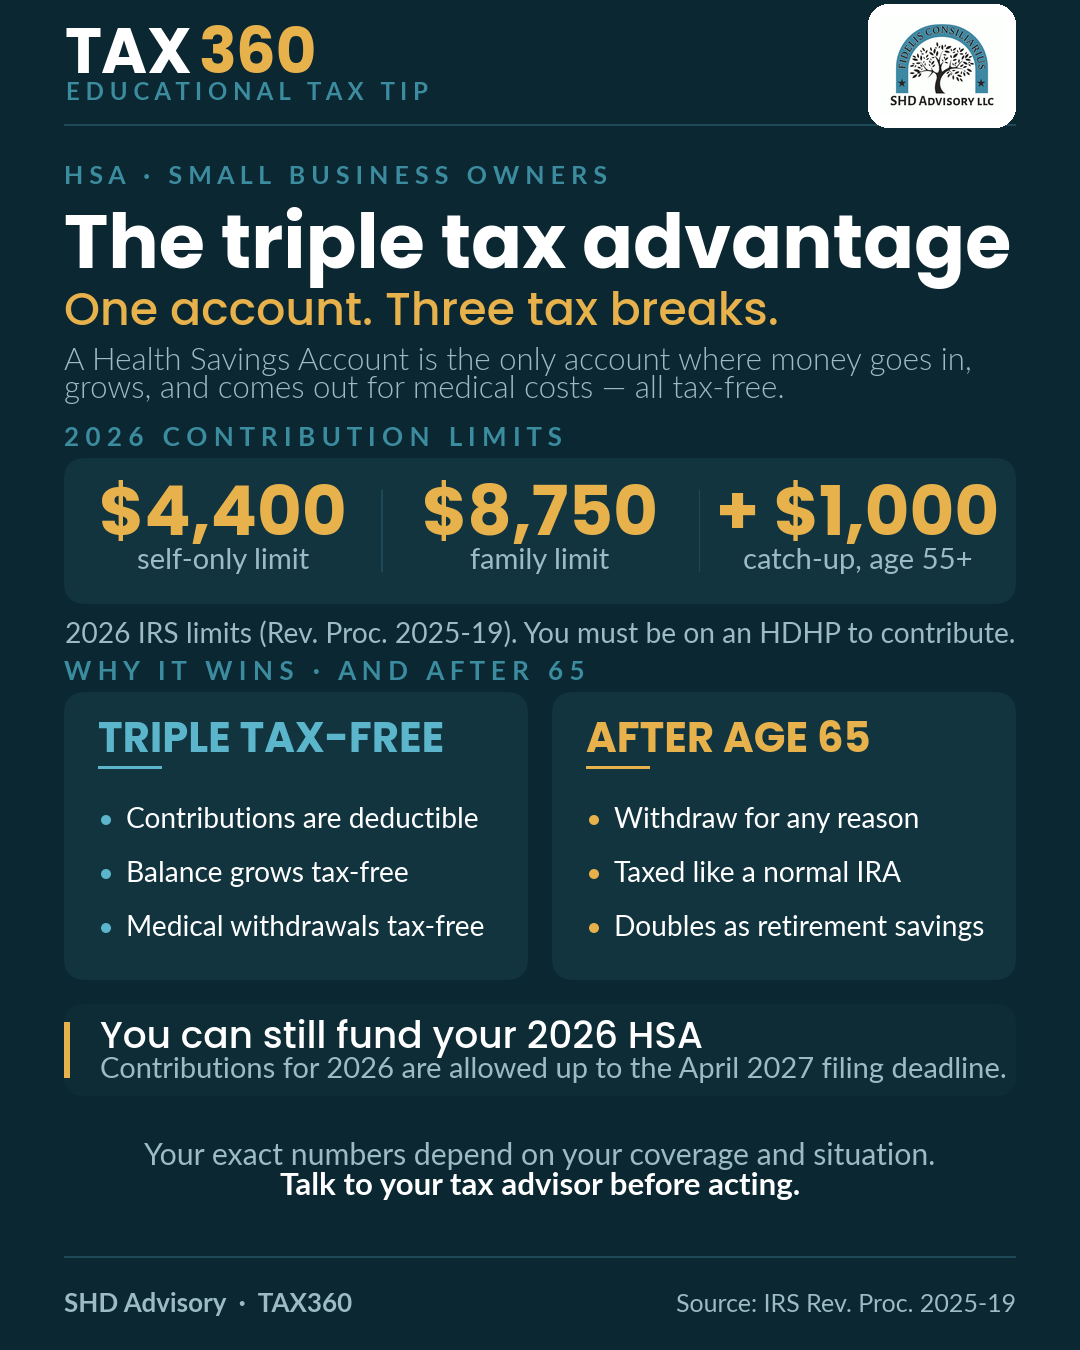
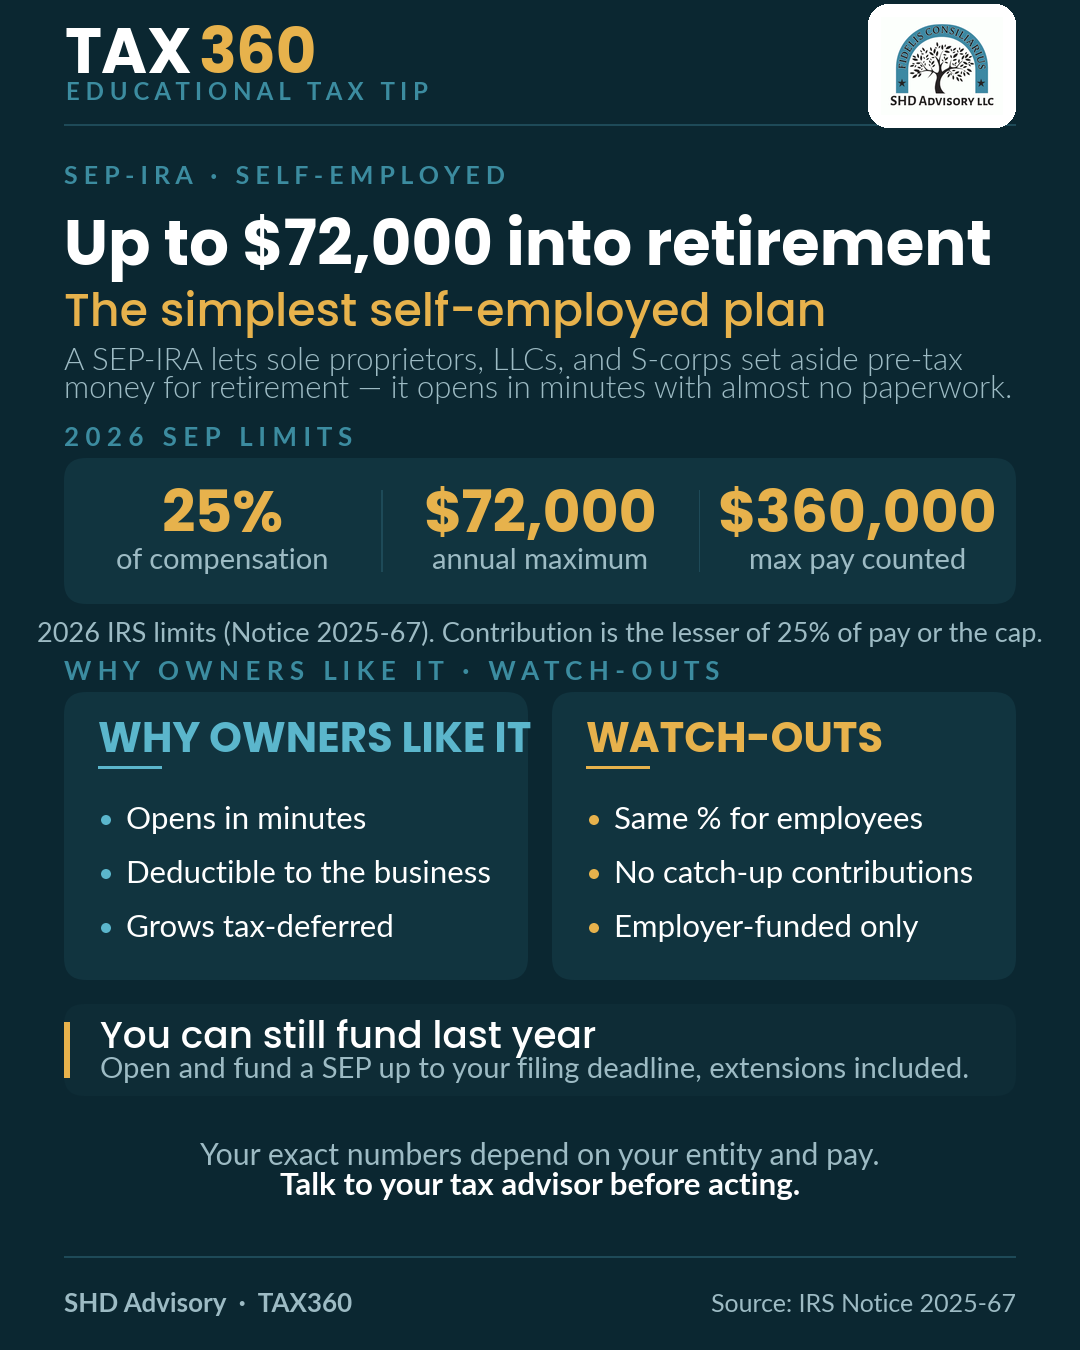
TAX360 2026-08-10 replace HSA card with SEP-IRA (topic was a 12-month repeat)

diff --git a/build_today.py b/build_today.py
@@ -33,48 +33,54 @@ T(M+2,92,"E D U C A T I O N A L   T A X   T I P","lb",11.5,TEAL)
 ax.add_patch(Rectangle((M,124),W-2*M,2,fc=LINE))
 
 # hero
-T(M,176,"H S A   ·   S M A L L   B U S I N E S S   O W N E R S","lb",12,TEAL)
-hl="The triple tax advantage"; hsz=40
+T(M,176,"S E P - I R A   ·   S E L F - E M P L O Y E D","lb",12,TEAL)
+hl="Up to $72,000 into retirement"; hsz=40
 while hsz>26 and textw(hl,"pb",hsz)>MAXW: hsz-=1
 T(M,248,hl,"pb",hsz,WHITE)
-T(M,314,"One account. Three tax breaks.","pm",22,GOLD)
-T(M,362,"A Health Savings Account is the only account where money goes in,","ll",15,MUTE)
-T(M,390,"grows, and comes out for medical costs — all tax-free.","ll",15,MUTE)
+T(M,314,"The simplest self-employed plan","pm",22,GOLD)
+T(M,362,"A SEP-IRA lets sole proprietors, LLCs, and S-corps set aside pre-tax","ll",15,MUTE)
+T(M,390,"money for retirement — it opens in minutes with almost no paperwork.","ll",15,MUTE)
 
 # stat band
-T(M,438,"2 0 2 6   C O N T R I B U T I O N   L I M I T S","lb",12.5,TEAL)
+T(M,438,"2 0 2 6   S E P   L I M I T S","lb",12.5,TEAL)
 pY=458; pH=146; rbox(M,pY,W-2*M,pH,PANEL,rad=22); colw=(W-2*M)/3
-for i,(big,lab) in enumerate([("$4,400","self-only limit"),("$8,750","family limit"),("+ $1,000","catch-up, age 55+")]):
-    cx=M+colw*(i+0.5); T(cx,pY+60,big,"pb",33,GOLD,ha="center"); T(cx,pY+103,lab,"lr",14,MUTE,ha="center")
+STAT=[("25%","of compensation"),("$72,000","annual maximum"),("$360,000","max pay counted")]
+bigsz=33
+while bigsz>22 and max(textw(b,"pb",bigsz) for b,_ in STAT)>colw-34: bigsz-=1
+for i,(big,lab) in enumerate(STAT):
+    cx=M+colw*(i+0.5); T(cx,pY+60,big,"pb",bigsz,GOLD,ha="center"); T(cx,pY+103,lab,"lr",14,MUTE,ha="center")
     if i>0: ax.add_patch(Rectangle((M+colw*i,pY+32),1.6,pH-64,fc=LINE))
-T(W/2,pY+pH+30,"2026 IRS limits (Rev. Proc. 2025-19). You must be on an HDHP to contribute.","lr",13.5,MUTE,ha="center")
+T(W/2,pY+pH+30,"2026 IRS limits (Notice 2025-67). Contribution is the lesser of 25% of pay or the cap.","lr",13,MUTE,ha="center")
 
 # comparison cards
-T(M,672,"W H Y   I T   W I N S   ·   A N D   A F T E R   6 5","lb",12.5,TEAL)
+T(M,672,"W H Y   O W N E R S   L I K E   I T   ·   W A T C H - O U T S","lb",12.5,TEAL)
 cY=692; cH=288; gap=24; cw=(W-2*M-gap)/2
-A=["Contributions are deductible","Balance grows tax-free","Medical withdrawals tax-free"]
-B=["Withdraw for any reason","Taxed like a normal IRA","Doubles as retirement savings"]
+A=["Opens in minutes","Deductible to the business","Grows tax-deferred"]
+B=["Same % for employees","No catch-up contributions","Employer-funded only"]
 inner=cw-62-30; bsz=15.5
 while bsz>13 and max(textw(r,"lr",bsz) for r in A+B)>inner: bsz-=0.5
 def card(x,accent,title,rows):
     rbox(x,cY,cw,cH,PANEL,rad=22); T(x+34,cY+50,title,"pb",20,accent)
     ax.add_patch(Rectangle((x+34,cY+74),64,3,fc=accent)); yy=cY+128
     for r in rows: ax.add_patch(plt.Circle((x+42,yy),5,fc=accent)); T(x+62,yy,r,"lr",bsz,WHITE); yy+=54
-card(M,TEALB,"TRIPLE TAX-FREE",A); card(M+cw+gap,GOLD,"AFTER AGE 65",B)
+card(M,TEALB,"WHY OWNERS LIKE IT",A); card(M+cw+gap,GOLD,"WATCH-OUTS",B)
 
 # accent strip
 dY=1004; dH=92; rbox(M,dY,W-2*M,dH,PANEL2,rad=20); ax.add_patch(Rectangle((M,dY+18),6,dH-36,fc=GOLD))
-T(M+36,dY+34,"You can still fund your 2026 HSA","pm",18,WHITE)
-T(M+36,dY+66,"Contributions for 2026 are allowed up to the April 2027 filing deadline.","lr",14,MUTE)
+T(M+36,dY+34,"You can still fund last year","pm",18,WHITE)
+accline="Open and fund a SEP up to your filing deadline, extensions included."
+accw=(W-2*M)-36-28; asz=14.0
+while asz>11 and textw(accline,"lr",asz)>accw: asz-=0.5
+T(M+36,dY+66,accline,"lr",asz,MUTE)
 
 # caveat
-T(W/2,1156,"Your exact numbers depend on your coverage and situation.","lr",14.5,MUTE,ha="center")
+T(W/2,1156,"Your exact numbers depend on your entity and pay.","lr",14.5,MUTE,ha="center")
 T(W/2,1186,"Talk to your tax advisor before acting.","lb",15,WHITE,ha="center")
 
 # footer
 ax.add_patch(Rectangle((M,H-94),W-2*M,1.6,fc=LINE))
 T(M,H-46,"SHD Advisory  ·  TAX360","lb",12.5,MUTE)
-T(W-M,H-46,"Source: IRS Rev. Proc. 2025-19","lr",12,MUTE,ha="right")
+T(W-M,H-46,"Source: IRS Notice 2025-67","lr",12,MUTE,ha="right")
 
 fig.savefig("/tmp/_tpl_base.png",facecolor=BG,dpi=150)
 from PIL import Image, ImageDraw, ImageChops
@@ -87,5 +93,4 @@ pad=13; bw,bh=lw+2*pad,LH+2*pad
 badge=Image.new("RGBA",(bw,bh),(0,0,0,0)); ImageDraw.Draw(badge).rounded_rectangle([0,0,bw-1,bh-1],radius=20,fill=(255,255,255,255))
 badge.paste(logo,(pad,pad),logo); base.alpha_composite(badge,(W-M-bw,(132-bh)//2))
 base.convert("RGB").save("/tmp/tax360-card.png",quality=92)
-print("headline_size",hsz,"bullet_size",bsz)
-print("saved_bytes",os.path.getsize("/tmp/tax360-card.png"))
+print("headline_size",hsz,"bullet_size",bsz,"bytes",os.path.getsize("/tmp/tax360-card.png"))
